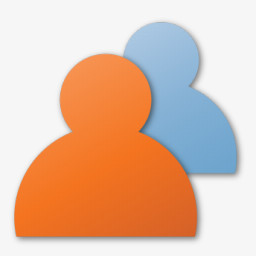
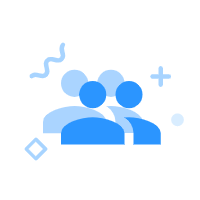
feat: 通讯目录新增切换功能,消息列表引入context-menu插件,待开发

diff --git a/client/src/components/Contact.vue b/client/src/components/Contact.vue
@@ -5,19 +5,35 @@
  * @Date: 2020-11-22 17:32:28
 -->
 <template>
-  <div class="contact-container">
-    <div class="contact-list" v-for="(value, key, index) in contactList" :key="index">
-      <span class="contact-letter">{{ key }}</span>
-      <div class="contact-box" v-for="(friend, sindex) in value" :key="sindex" @click="chooseFriend(friend)">
-        <a-avatar :src="friend.avatar" class="contact-avatar" :size="40"></a-avatar>
-        <span class="contact-name">{{ friend.username }}</span>
+  <a-collapse>
+    <a-collapse-panel key="contact" header="联系人">
+      <div class="contact-container">
+        <div class="contact-list" v-for="(value, key, index) in contactList" :key="index">
+          <span class="contact-letter">{{ key }}</span>
+          <div class="contact-box" v-for="(friend, sindex) in value" :key="sindex" @click="chooseObject(friend)">
+            <a-avatar :src="friend.avatar" class="contact-avatar" :size="40"></a-avatar>
+            <span class="contact-name">{{ friend.username }}</span>
+          </div>
+        </div>
       </div>
-    </div>
-    <!-- 此处嵌入第三方组织架构目录 -->
-    <div class="tree-container" v-if="organizationArr.length > 0">
-      <a-tree show-line :replace-fields="replaceFields" :tree-data="organizationArr" @select="onTreeSelect" />
-    </div>
-  </div>
+    </a-collapse-panel>
+    <a-collapse-panel key="organization" header="组织架构" :disabled="false">
+      <!-- 此处嵌入第三方组织架构目录 -->
+      <div class="tree-container" v-if="organizationArr.length > 0">
+        <a-tree show-line :replace-fields="replaceFields" :tree-data="organizationArr" @select="onTreeSelect" />
+      </div>
+    </a-collapse-panel>
+    <a-collapse-panel key="group" header="群组">
+      <div class="contact-container" style="padding-top:0">
+        <div class="contact-list" v-for="(group, index) in groupList" :key="index">
+          <div class="contact-box" @click="chooseObject(group)">
+            <img  class="contact-avatar" src="~@/assets/group.png" alt="" />
+            <span class="contact-name">{{ group.groupName }}</span>
+          </div>
+        </div>
+      </div>
+    </a-collapse-panel>
+  </a-collapse>
 </template>
 
 <script lang="ts">
@@ -32,6 +48,8 @@ const appModule = namespace('app');
 @Component
 export default class Contact extends Vue {
   @chatModule.Getter('friendGather') friendGather: FriendGather;
+
+  @chatModule.Getter('groupGather') groupGather: GroupGather;
 
   @chatModule.Mutation('set_active_room') _setActiveRoom: Function;
 
@@ -93,6 +111,12 @@ export default class Contact extends Vue {
     return contactObj;
   }
 
+  // 获取群组列表
+  get groupList() {
+    const list = Object.values(this.groupGather);
+    return list;
+  }
+
   onTreeSelect(selectedKeys: any, info: any) {
     const {
       node: {
@@ -108,7 +132,7 @@ export default class Contact extends Vue {
     }
   }
 
-  chooseFriend(friend: Friend) {
+  chooseObject(friend: Friend | Group) {
     this._setActiveTabName('message');
     this._setActiveRoom(friend);
   }
@@ -130,7 +154,7 @@ $color: #6f6f6f;
   height: 100%;
   overflow: auto;
   text-align: left;
-  padding: 20px;
+  padding: 5px 20px;
   background: #fbfbfb;
   .contact-list {
     .contact-letter {
@@ -155,11 +179,13 @@ $color: #6f6f6f;
       }
       .contact-avatar {
         border-radius: 0 !important;
+        width: 40px;
       }
     }
   }
-  .tree-container {
-    border-top: 1px solid rgb(198, 198, 198);
-  }
+}
+.tree-container {
+  text-align: left;
+  padding-left: 20px;
 }
 </style>

diff --git a/client/src/theme/coverAntd.scss b/client/src/theme/coverAntd.scss
@@ -1,15 +1,15 @@
 // 修改antd tab默认样式
 .ant-tabs-bar {
-  margin: 0 0 10px 0!important;
+  margin: 0 0 10px 0 !important;
 }
 
 // 抽屉组件重写样式
 .ant-drawer-content-wrapper {
-  background-color: rgba(248, 248, 248, 0.8)!important;
+  background-color: rgba(248, 248, 248, 0.8) !important;
   .ant-drawer-content {
-    background-color: rgba(248, 248, 248, 0.8)!important;
+    background-color: rgba(248, 248, 248, 0.8) !important;
     .ant-drawer-body {
-      padding: 0!important;
+      padding: 0 !important;
       // 移动端群组部分
       .room-card {
         background-color: rgba(115, 165, 200, 0.2);
@@ -39,12 +39,12 @@
           padding: 0 12px;
           font-size: 14px;
           color: #080808;
-          border-bottom: 1px solid #d9d9d9!important;
-          .active-content-title-label{
+          border-bottom: 1px solid #d9d9d9 !important;
+          .active-content-title-label {
             font-size: 12px;
             color: #888;
           }
-          &>div{
+          & > div {
             overflow: hidden; //超出的文本隐藏
             text-overflow: ellipsis; //溢出用省略号显示
             white-space: nowrap; //溢出不换行
@@ -81,8 +81,8 @@
           color: #e23b38;
           background: #f8f8f8;
           border: none;
-          border-radius: 0!important;
-          box-shadow: none!important;
+          border-radius: 0 !important;
+          box-shadow: none !important;
           width: 100%;
           right: 0;
         }
@@ -91,7 +91,7 @@
   }
 }
 .ant-drawer-mask {
-  background: transparent!important;
+  background: transparent !important;
 }
 
 // antd drawer
@@ -105,4 +105,27 @@
 .chat-drawer {
   height: 100%;
   overflow: hidden;
+}
+
+// 修改antd collpase默认样式
+.ant-collapse {
+  background: #fbfbfb !important;
+  border: none;
+}
+.ant-collapse-item {
+  border: none !important;
+}
+.ant-collapse-content {
+  border: none !important;
+}
+.ant-collapse-header {
+  text-align: left;
+}
+.ant-collapse-content-box {
+  padding: 0 !important;
+}
+// 修改antd ant-tree-title 默认样式
+.ant-tree-title,
+.ant-tree-switcher-line-icon {
+  color: #080808 !important;
 }

diff --git a/client/src/components/Room.vue b/client/src/components/Room.vue
@@ -32,7 +32,15 @@
         class="room-card"
         :class="{ active: activeRoom && !activeRoom.groupId && activeRoom.userId === chat.userId }"
         @click="changeActiveRoom(chat)"
+        v-contextmenu:contextmenu
       >
+        <!-- 自定义右键菜单 -->
+        <v-contextmenu ref="contextmenu">
+          <v-contextmenu-item @click="handleCommand('top', chat)">置顶</v-contextmenu-item>
+          <v-contextmenu-item @click="handleCommand('isRead', chat)">标记已读</v-contextmenu-item>
+          <v-contextmenu-item divider></v-contextmenu-item>
+          <v-contextmenu-item @click="handleCommand('remove', chat)">删除</v-contextmenu-item>
+        </v-contextmenu>
         <a-badge class="room-card-badge" :count="unReadGather[chat.userId]" />
         <img class="room-card-type" :src="friendGather[chat.userId].avatar" :class="{ offLine: avatarOffLine(chat) }" alt="" />
         <div class="room-card-message">
@@ -93,10 +101,15 @@ export default class Room extends Vue {
     return this.activeGroupUser[DEFAULT_GROUP];
   }
 
+  handleCommand(type: string, chat: Group | Friend) {
+    console.log(type, chat);
+  }
+
   avatarOffLine(chat: any) {
     return chat.userId !== DEFAULT_ROBOT ? !this.activeUserGather[chat.userId] : false;
   }
 
+  // 获取消息列表数据
   sortChat() {
     this.chatArr = [];
     const groups = Object.values(this.groupGather);
@@ -147,7 +160,7 @@ $background: rgba(81, 79, 78, 0.7);
     min-height: 65px;
     display: flex;
     align-items: center;
-    border-bottom: 1px solid #e8e8e8!important;
+    border-bottom: 1px solid #e8e8e8 !important;
     // background-color: rgba(0, 0, 0, 0.2);
     padding: 5px 10px;
     text-align: left;

diff --git a/client/src/main.ts b/client/src/main.ts
@@ -8,13 +8,16 @@
 import Vue from 'vue';
 import Viewer from 'v-viewer'; // 图片预览插件
 import moment from 'moment'; // 引入moment
+import contentmenu from 'v-contextmenu';
 import App from './App.vue';
 import router from './router';
 import store from './store';
 // eslint-disable-next-line import/no-extraneous-dependencies
 import 'viewerjs/dist/viewer.css';
 import './ant-desigin'; // 引入ant-desigin
+import 'v-contextmenu/dist/index.css';
 
+Vue.use(contentmenu);
 Vue.config.productionTip = false;
 // 使用中文时间
 Vue.prototype.$moment = moment;

diff --git a/client/src/ant-desigin.ts b/client/src/ant-desigin.ts
@@ -27,6 +27,7 @@ import {
   Popconfirm,
   Badge,
   Tree,
+  Collapse,
 } from 'ant-design-vue';
 
 Vue.use(Avatar);
@@ -48,4 +49,5 @@ Vue.use(Drawer);
 Vue.use(Popconfirm);
 Vue.use(Badge);
 Vue.use(Tree);
+Vue.use(Collapse);
 Vue.prototype.$message = message;

diff --git a/client/src/views/Chat.vue b/client/src/views/Chat.vue
@@ -227,6 +227,7 @@ export default class Chat extends Vue {
     height: 100%;
     background-color: rgb(0, 0, 0, 0.3);
     border-right: 1px solid #d6d6d6;
+    background: #fbfbfb;
   }
   .chat-part3 {
     flex: 1;

diff --git a/client/src/types/shims-vue.d.ts b/client/src/types/shims-vue.d.ts
@@ -3,3 +3,5 @@ declare module '*.vue' {
 
   export default Vue;
 }
+
+declare module 'v-contextmenu'
